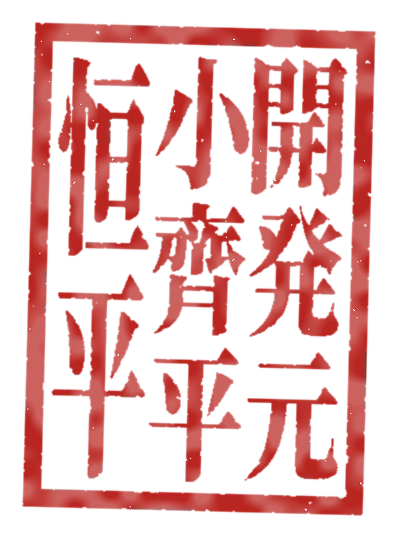
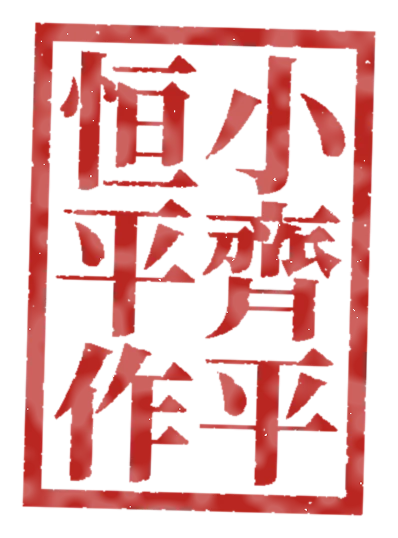
表紙の印の文字を「小齊平恒平作」に変える
利用者の指示。右の列から「小齊平」「恒平作」の2列にする。

Claude-Session: https://claude.ai/code/session_01HnjCpnJAFJczCwN7DNxS75

Changed region(s): [[0.1206, 0.0892, 0.8744, 0.9219]]

diff --git a/src/screens/CoverScreen.tsx b/src/screens/CoverScreen.tsx
@@ -11,8 +11,8 @@ export function CoverScreen({ onStart }: { onStart: () => void }) {
         <h1 className="cover-title" lang="ja">
           {APP_NAME}
         </h1>
-        {/* 開発元の落款（利用者の指定。朱の縦長の角印） */}
-        <img className="cover-seal" src={seal} alt="開発元 小齊平 恒平" lang="ja" width={398} height={538} />
+        {/* 作者の落款（利用者の指定。朱の縦長の角印「小齊平恒平作」） */}
+        <img className="cover-seal" src={seal} alt="小齊平恒平 作" lang="ja" width={398} height={538} />
       </div>
       <p className="cover-reading">NINJI</p>
       <button className="cover-start" onClick={onStart}>

diff --git a/scripts/make-seal.py b/scripts/make-seal.py
@@ -1,4 +1,4 @@
-# 表紙の落款（開発元 小齊平 恒平）の画像を作る。使い方: python3 scripts/make-seal.py <NotoSerifJP[wght].ttf>
+# 表紙の落款（小齊平恒平 作）の画像を作る。使い方: python3 scripts/make-seal.py <NotoSerifJP[wght].ttf>
 # 同梱フォントは使う字だけに絞っていて「齊」が無いため、原本のフォントから画像にして同梱する
 import random
 from PIL import Image, ImageDraw, ImageFont, ImageFilter, ImageChops
@@ -15,8 +15,9 @@ m=10*S; bw=18*S
 d.rectangle([m,m,W*S-m,H*S-m],outline=255,width=bw)
 inner_l, inner_r = m+bw+6*S, W*S-m-bw-6*S
 inner_t, inner_b = m+bw+6*S, H*S-m-bw-6*S
-cols=[list('開発元'),list('小齊平'),list('恒平')]
-cw=(inner_r-inner_l)/3
+# 右の列から: 小齊平／恒平作
+cols=[list('小齊平'),list('恒平作')]
+cw=(inner_r-inner_l)/len(cols)
 for ci,chars in enumerate(cols):
     x0=inner_r-cw*(ci+1)
     n=len(chars); ch=(inner_b-inner_t)/n
